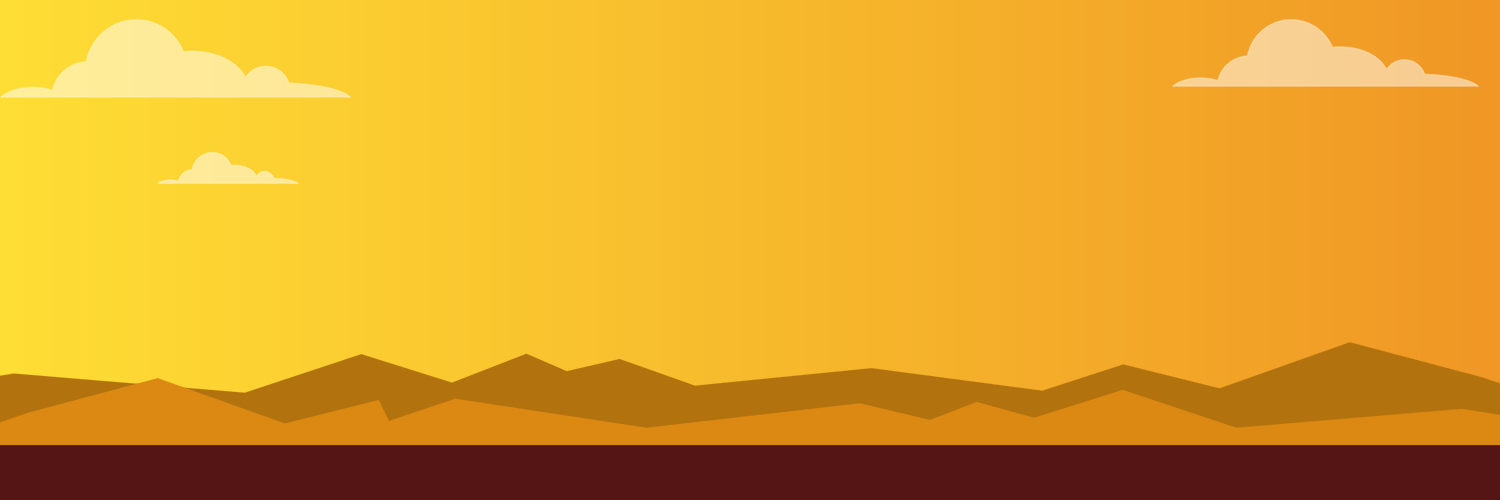
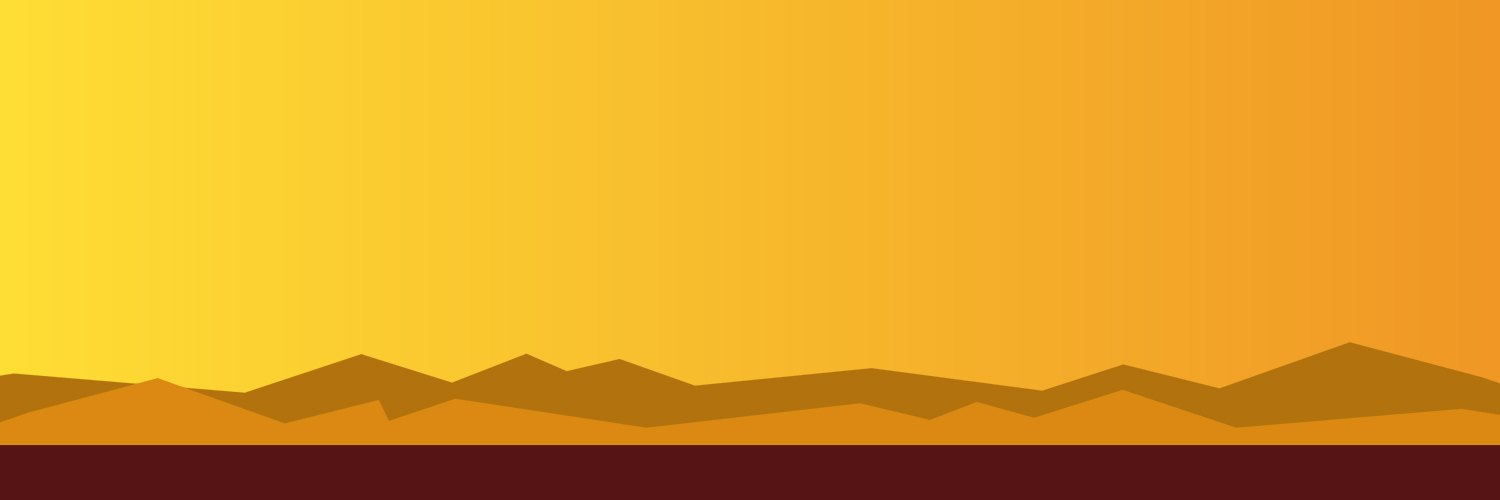
homepage changes

Changed region(s): [[0.0, 0.03, 0.2453, 0.21], [0.7667, 0.03, 0.9813, 0.18], [0.092, 0.3, 0.2147, 0.39]]

diff --git a/app/containers/LandingPage/HomePage.js b/app/containers/LandingPage/HomePage.js
@@ -23,6 +23,9 @@ class HomePage extends React.Component {
     return (
 
       <div className={classes.backgroundDiv}>
+        <div className={classes.cloudDiv}>
+          <img className={classes.cloudDivImg} src='/images/homepage/cloudz.gif' />
+        </div>
         <div className={classes.headingDiv}>
           <img src='/images/homepage/header.png' />
         </div>

diff --git a/app/containers/LandingPage/home-jss.js b/app/containers/LandingPage/home-jss.js
@@ -78,6 +78,14 @@ const styles = theme => ({
         width: 135,
         top: 0,
         position: 'relative'
+    },
+    cloudDiv: {
+        position: 'absolute',
+        width: '100%',
+        opacity: .3
+    },
+    cloudDivImg: {
+        width: '100vw',
     }
 });
 
